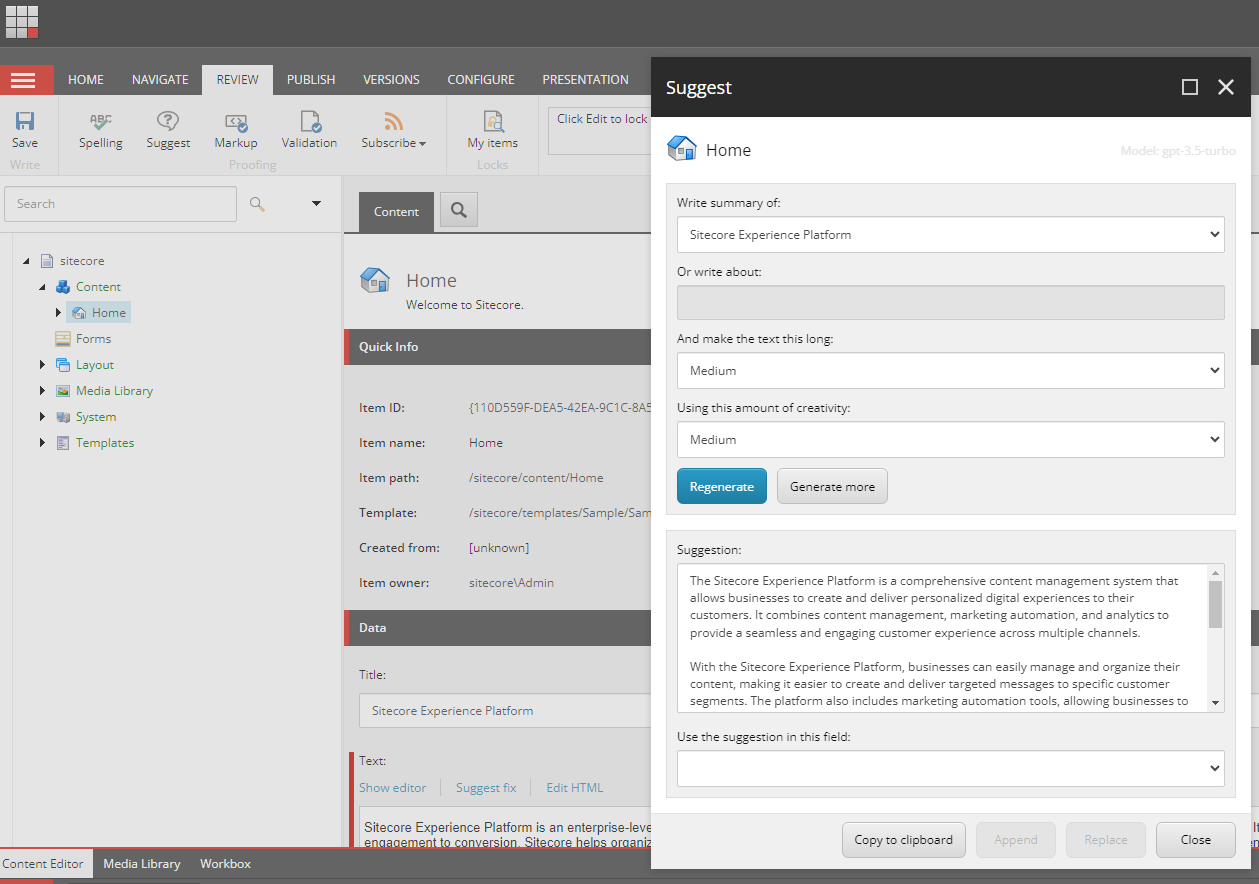
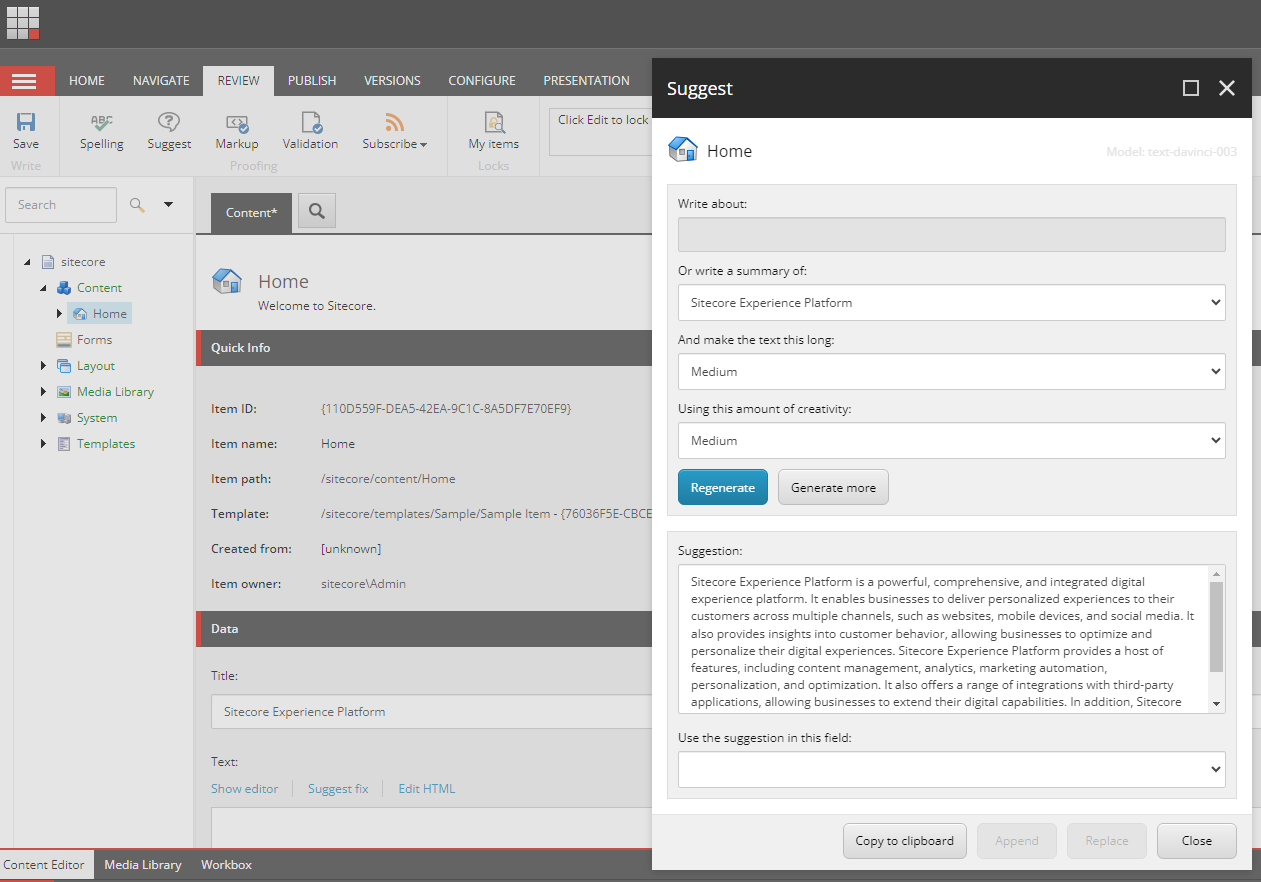
Update UI

diff --git a/SitecoreSuggest/sitecore/shell/Applications/Dialogs/Suggest/Suggest.js b/SitecoreSuggest/sitecore/shell/Applications/Dialogs/Suggest/Suggest.js
@@ -63,8 +63,8 @@ function sitecoreSuggest_onLoad(event) {
     }
 
     // Setup changes to UI
-    summaryFieldIdCombobox.addEventListener("input", initGenerate);
     promptEdit.addEventListener("input", initGenerate);
+    summaryFieldIdCombobox.addEventListener("input", initGenerate);
     fieldIdComboBox.addEventListener("input", initAppendReplace);
     generateButton.addEventListener("click", () => initSuggestion(true));
     generateMoreButton.addEventListener("click", () => initSuggestion(true));

diff --git a/SitecoreSuggest/Dialogs/SuggestForm.cs b/SitecoreSuggest/Dialogs/SuggestForm.cs
@@ -4,7 +4,6 @@
     using Sitecore;
     using Sitecore.Common;
     using Sitecore.Data;
-    using Sitecore.Data.Events;
     using Sitecore.Data.Fields;
     using Sitecore.Diagnostics;
     using Sitecore.Web;
@@ -25,8 +24,8 @@
         protected Image IconImage;
         protected Literal NameLiteral;
         protected Literal ModelLiteral;
-        protected Combobox SummaryFieldIdCombobox;
         protected Edit PromptEdit;
+        protected Combobox SummaryFieldIdCombobox;
         protected Combobox WordsCombobox;
         protected Combobox TemperatureCombobox;
         protected Combobox FieldIdCombobox;
